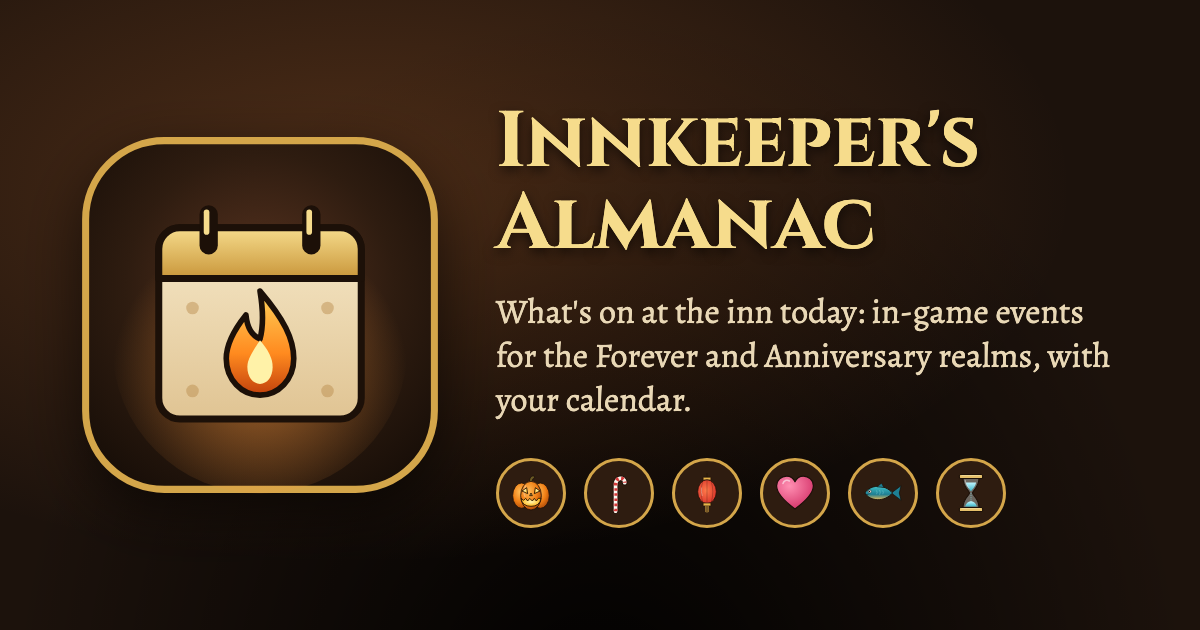
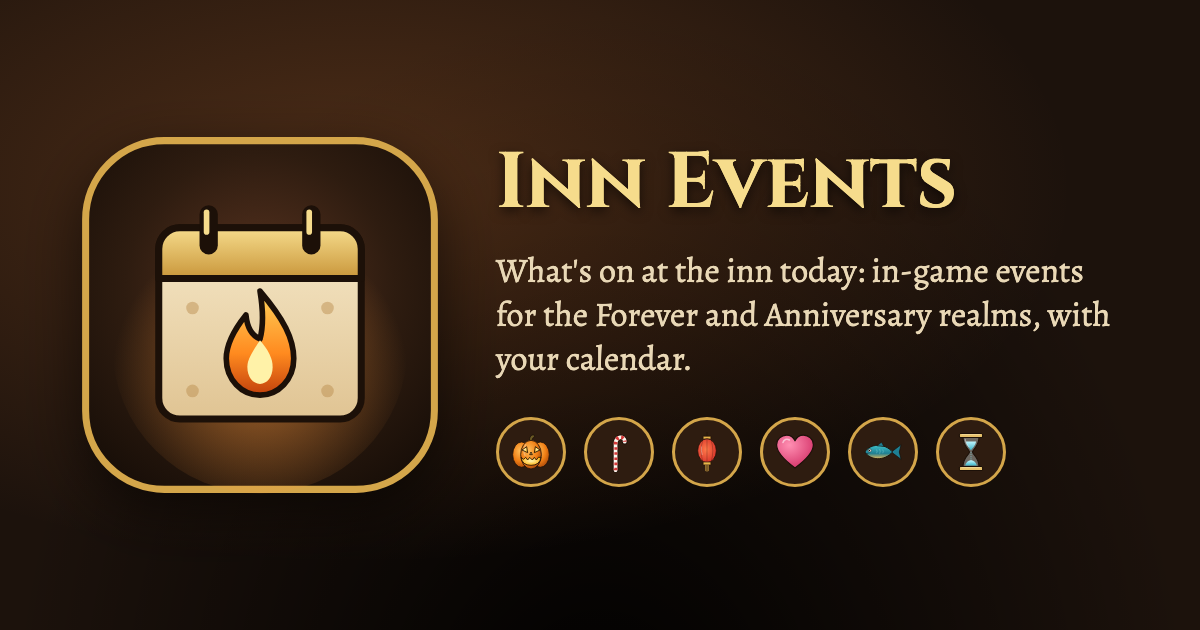
Social preview image: "Inn Events" as its title
The link preview (og-image.png) now matches the site name and the
og:title, instead of "Innkeeper's Almanac". Regenerated with
`npm run assets`; the icons are unchanged.

Changed region(s): [[0.4008, 0.1508, 0.925, 0.8444]]

diff --git a/scripts/generate-assets.ts b/scripts/generate-assets.ts
@@ -44,7 +44,7 @@ p { margin: 24px 0 0; font-size: 34px; line-height: 1.3; color: #e9d8b6; }
 .emblem { width: 64px; height: 64px; border-radius: 50%; border: 3px solid #d4a64a; background: #2e1c10; display: grid; place-items: center; }
 .emblem svg { width: 40px; height: 40px; }
 </style></head><body><div class="icon">${appIcon()}</div>
-<div><h1>Innkeeper's Almanac</h1><p>What's on at the inn today: in-game events for the Forever and Anniversary realms, with your calendar.</p>
+<div><h1>Inn Events</h1><p>What's on at the inn today: in-game events for the Forever and Anniversary realms, with your calendar.</p>
 <div class="emblems">${emblems}</div></div></body></html>`;
 }
 
